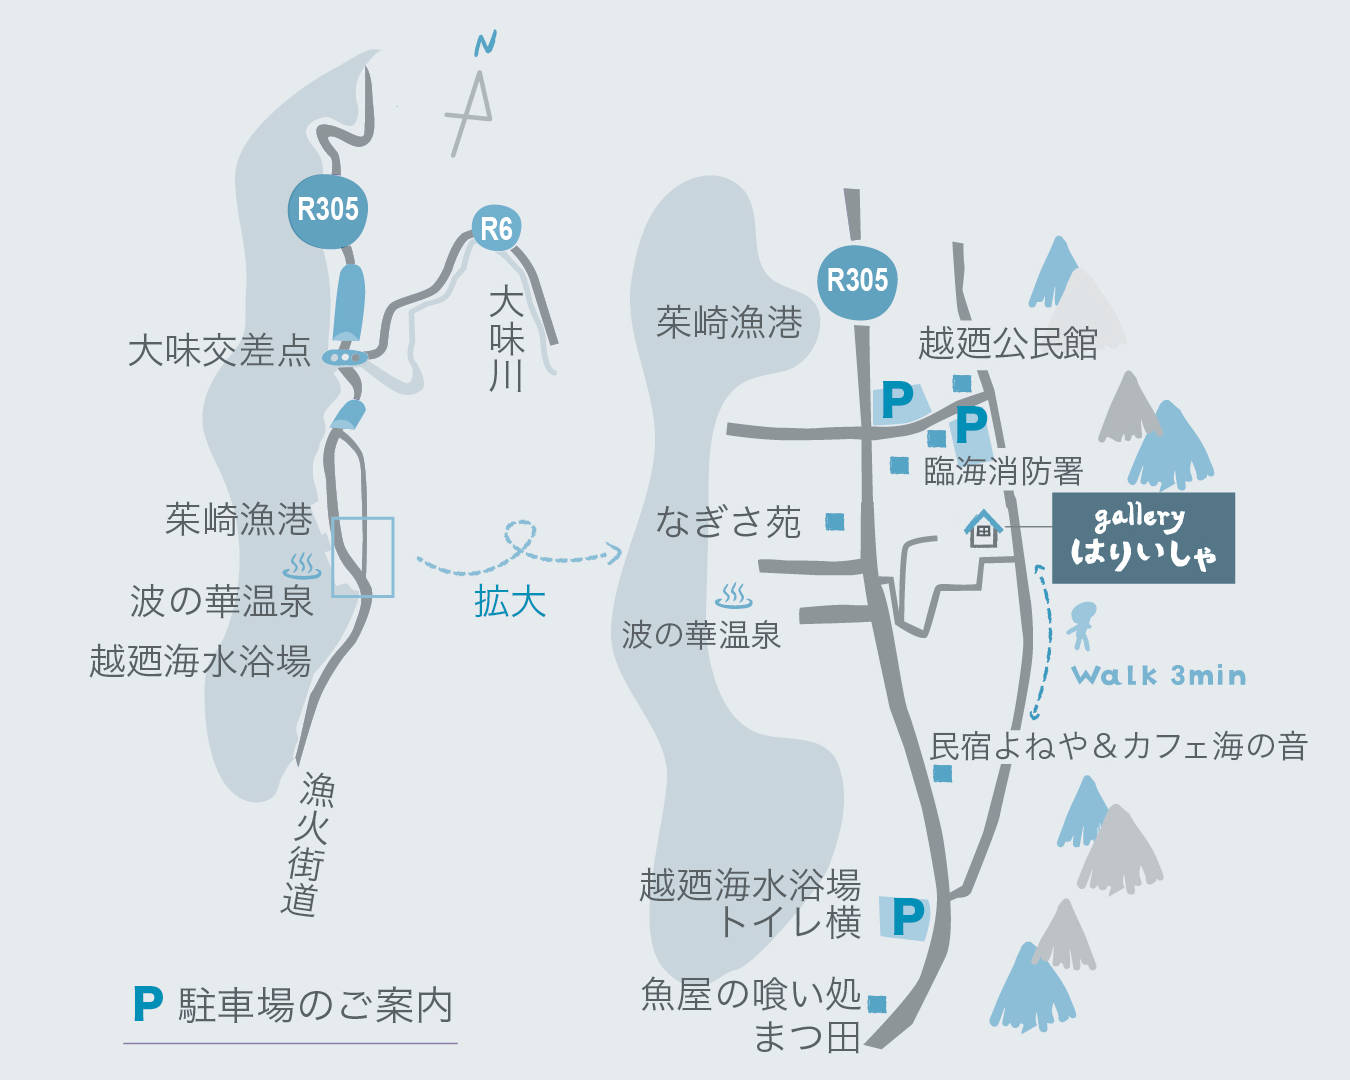
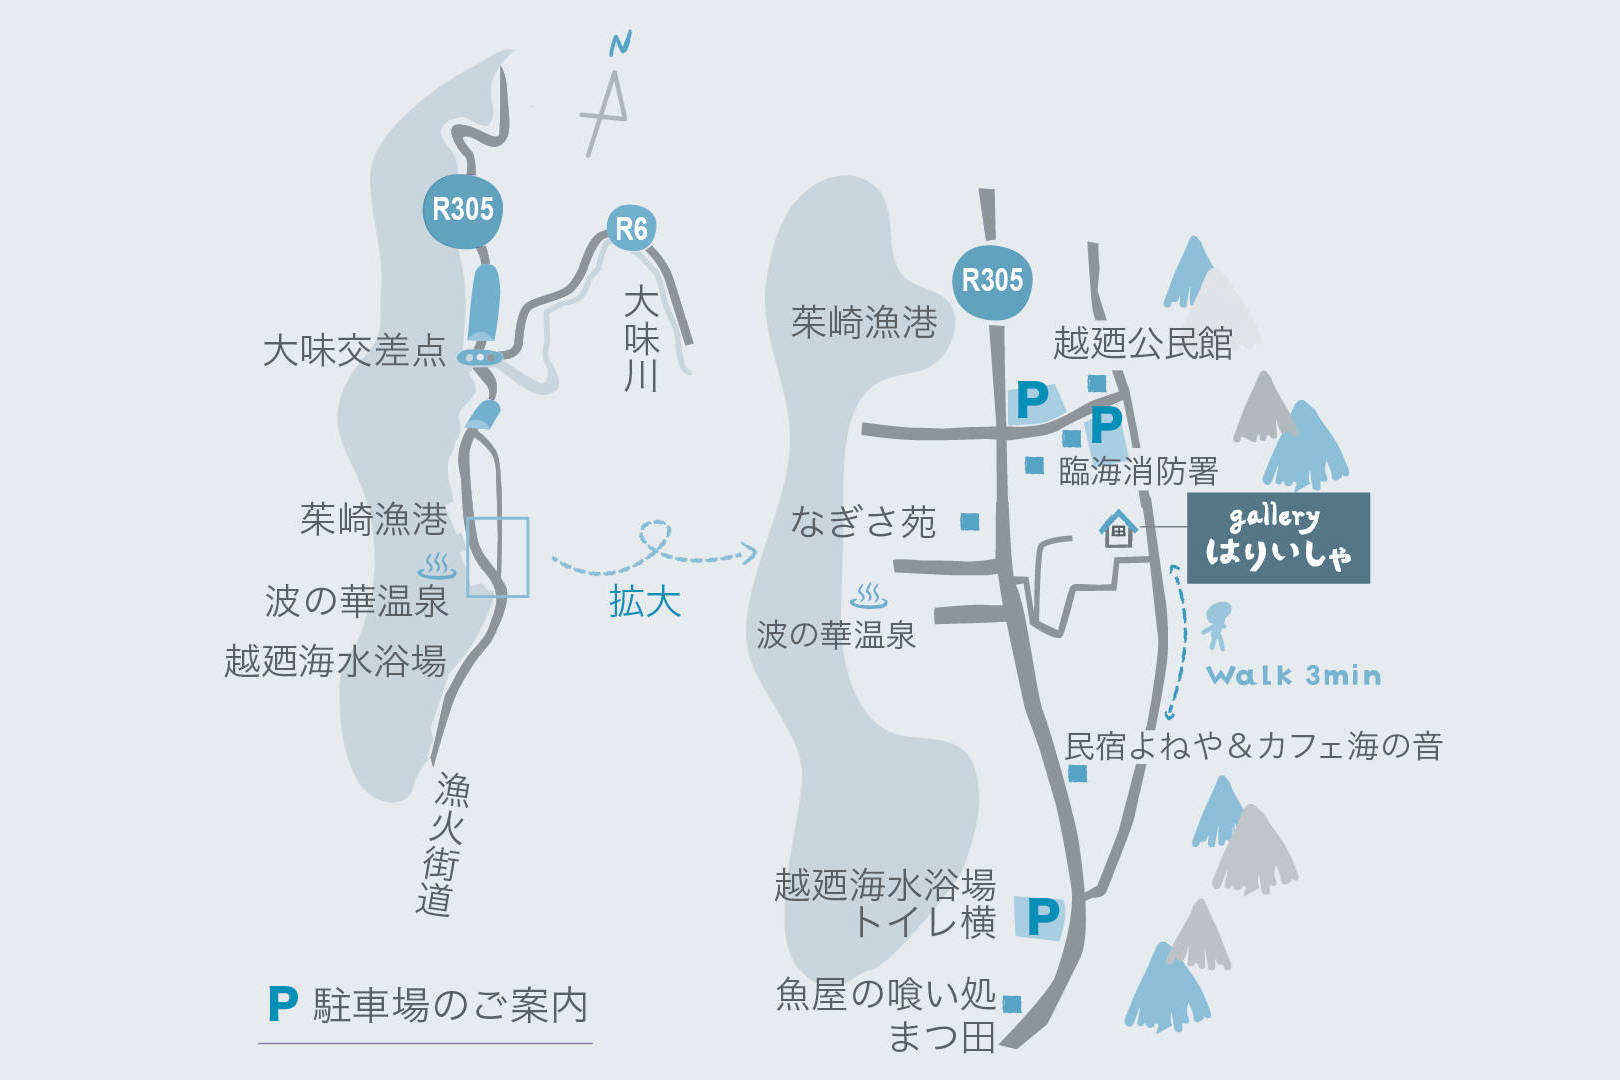
feat: 連泊割引を追記

diff --git a/tools/leaflet/index.html b/tools/leaflet/index.html
@@ -485,8 +485,9 @@
               <tr><th scope="row">基本料金（1〜2名）</th><td>25,000円</td></tr>
               <tr><th scope="row">夏休み期間・休祝日前日（1〜2名）</th><td>30,000円</td></tr>
               <tr><th scope="row">3名目以降 1名につき（時期問わず）</th><td>+5,000円</td></tr>
-              <tr><th scope="row">小学生</th><td>3,000円／名</td></tr>
+              <tr><th scope="row">小学生</th><td>3,000円 / 名</td></tr>
               <tr><th scope="row">未就学児（添い寝）</th><td>無料</td></tr>
+              <tr><th scope="row">連泊（2泊目以降）</th><td>20%引き</td></tr>
             </tbody>
           </table>
           <p class="note">※ 中学生以上は大人料金です. また, 当宿ではお食事の提供は致しておりません.</p>

diff --git a/index.php b/index.php
@@ -215,6 +215,10 @@ render_header([
                         <th scope="row">未就学児（添い寝）</th>
                         <td>無料</td>
                       </tr>
+                      <tr>
+                        <th scope="row">連泊（2泊目以降）</th>
+                        <td>20%引き</td>
+                      </tr>
                     </tbody>
                   </table>
                   <ul class="stayGuide__note">
